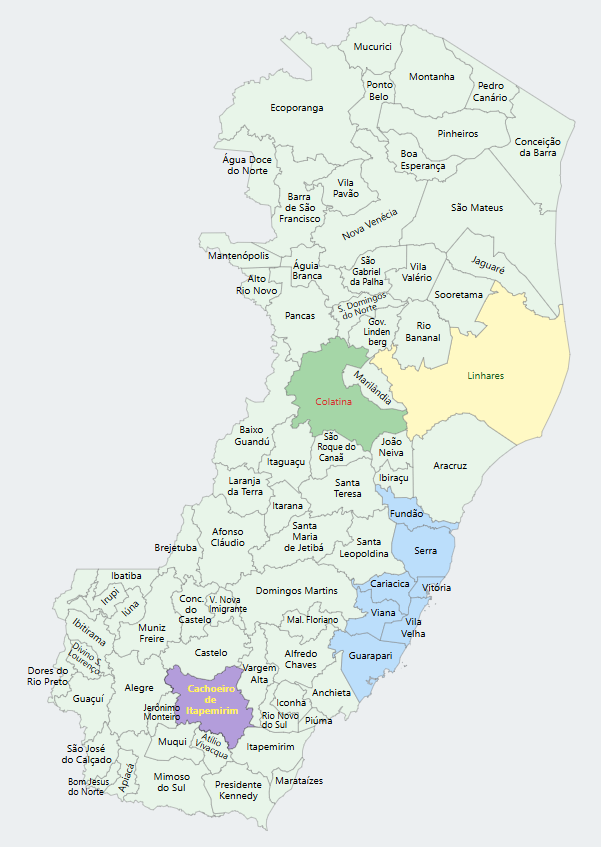
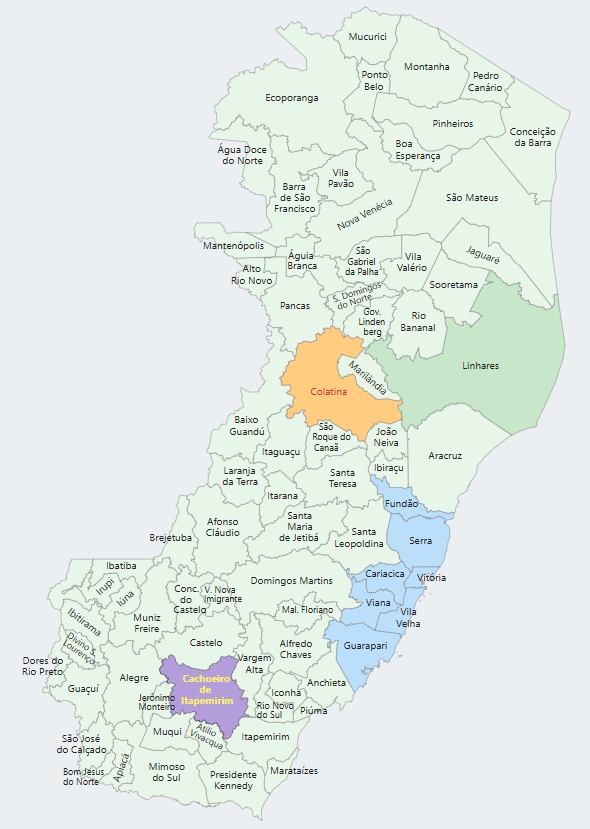
alterando objeto mapaEs para mapaSvg, para deixa-lo mais abrangente caso novos mapas sejam inseridos no futuro

Changed region(s): [[0.0305, 0.0, 0.9763, 0.9952], [0.9458, 0.1206, 0.9763, 0.1508]]

diff --git a/example/script.js b/example/script.js
@@ -3,7 +3,9 @@
 
 function destacarGrandeVitoriaInterior() {
 
-    mapaEs.setAllTracados('#e8f5e9', '#757575');  // MDC GREEN 50, GRAY 600
+    mapaSvg.setAllTracados('#e8f5e9', '#757575'); // MDC GREEN 50, GRAY 600
+    mapaSvg.setAllHover('#c8e6c9'); // MDC GREEN 100
+    mapaSvg.setAllNomes('#212121'); // MDC GREY 900
 
     const municipiosGV = [
         '3201308', //cariacica
@@ -16,36 +18,38 @@ function destacarGrandeVitoriaInterior() {
     ];
 
     municipiosGV.forEach(cod => {
-        mapaEs.setTracado(cod, "#bbdefb"); //MDC BLUE 100
-        mapaEs.setHover(cod, '#64b5f6', '#1565c0', '#212121'); //MDC BLUE 300, BLUE 800, GREY 900
+        mapaSvg.setTracado(cod, "#bbdefb"); //MDC BLUE 100
+        mapaSvg.setHover(cod, '#64b5f6', '#1565c0', '#212121'); //MDC BLUE 300, BLUE 800, GREY 900
     });
 }
 
 function esconderTodosOsNomes() {
-    mapaEs.hideAllNomes();
+    mapaSvg.hideAllNomes();
 }
 
 function exibirTodosOsNomes() {
-    mapaEs.showAllNomes();
+    mapaSvg.showAllNomes();
 }
 
 function exibirApenasLinhares() {
 
-    mapaEs.hideAllTracados();
-    mapaEs.showTracado('3203205');
+    mapaSvg.hideAllTracados();
+    mapaSvg.showTracado('3203205');
 
-    mapaEs.hideAllNomes();
-    mapaEs.showNome('3203205');
+    mapaSvg.hideAllNomes();
+    mapaSvg.showNome('3203205');
 }
 
 function customizarColatina() {
-    mapaEs.setTracado('3201506', "#a5d6a7"); //MDC GREEN 200
-    mapaEs.setNome('3201506', '#d32f2f'); //MDC RED 700
+    mapaSvg.setTracado('3201506', "#ffcc80"); //MDC ORANGE 200
+    mapaSvg.setNome('3201506', '#d32f2f'); //MDC RED 700
+    mapaSvg.setHover('3201506', '#ffa726'); //MDC GREEN 400
 }
 
 function customizarCachoeiro() {
-    mapaEs.setTracado('3201209', '#b39ddb', 'black'); //MDC DEEP PURPLE 200
-    mapaEs.setNome('3201209', '#ffee58', true); //MDC YELLOW 400
+    mapaSvg.setTracado('3201209', '#b39ddb', 'black'); //MDC DEEP PURPLE 200
+    mapaSvg.setNome('3201209', '#ffee58', true); //MDC YELLOW 400
+    mapaSvg.setHover('3201209', '#7e57c2'); //MDC DEEP PURPLE 400
 }
 
 //----------------------------------------------
@@ -59,7 +63,7 @@ document.addEventListener("DOMContentLoaded", async () => {
     // Ao fazer isso, as tags internas do svg passam a fazer parte do DOM,
     //  o que nos permite manipulá-los com css e javascript.
 
-    const response = await fetch('../dist/mapaEs.svg');
+    const response = await fetch('../dist/mapa-es.svg');
     const svgContent = await response.text();
 
     const container = document.querySelector('#map-holder');
@@ -67,17 +71,17 @@ document.addEventListener("DOMContentLoaded", async () => {
     
     const svgElement = container.querySelector('svg');
     
-    //inicializa o mapaEs para facilitar o uso do mapa
-    mapaEs.init(svgElement);
+    //inicializa o mapaSvg para facilitar o uso do mapa
+    mapaSvg.init(svgElement);
 
     // Configura eventos de hover dos traçados dos municípios
-    mapaEs.setAllHover('#fff9c4', null, '#1b5e20'); //MDC YELLOW 100, null, GREEN 900
+    mapaSvg.setAllHover('#fff9c4', null, '#1b5e20'); //MDC YELLOW 100, null, GREEN 900
 
     //lógica de arrastar (pan and zoom)
     PanAndZoomControls.init(container, svgElement);
     
     //Click: mostra um alerta contendo o nome e o código IBGE do município
-    mapaEs.tracados.forEach(t => {
+    mapaSvg.tracados.forEach(t => {
         t.addEventListener("click", () => {
             const munObj = municipioData.find(m => m.codigoIbge === t.id);
             alert(`${munObj.codigoIbge} - ${munObj.nome}`);

diff --git a/dist/mapaSvg.js b/dist/mapaSvg.js
@@ -1,5 +1,5 @@
 /*!
- * Copyright (c) 2024 - Luciano Lorencini - disponível em: https://github.com/luclorencini/mapa-es-svg
+ * Copyright (c) 2025 - Luciano Lorencini - disponível em: https://github.com/luclorencini/mapa-es-svg
  * Licenciado sob a Licença MIT. Consulte o arquivo LICENSE para mais detalhes.
  */
 
@@ -17,7 +17,7 @@
  * 
  * @type {Object}
  */
-const mapaEs = {
+const mapaSvg = {
     /**
      * Lista de todos os elementos 'path' que representam os traçados dos municípios.
      * @type {NodeListOf<SVGPathElement>}
@@ -43,17 +43,17 @@ const mapaEs = {
     init(svgElement) {
 
         if (!svgElement) {
-            console.error('mapaEs - init: elemento SVG não informado');
+            console.error('mapaSvg - init: elemento SVG não informado');
             return;
         }
 
         this.svgElement = svgElement;
 
         // Pega todos os elementos 'path' de municípios
-        mapaEs.tracados = this.svgElement.querySelectorAll("#tracados path");
+        mapaSvg.tracados = this.svgElement.querySelectorAll("#tracados path");
 
         // Pega todos os elementos de nomes de municípios, seja um 'text' ou um 'grupo' de textos
-        mapaEs.nomes = this.svgElement.querySelectorAll('#nomes > *');
+        mapaSvg.nomes = this.svgElement.querySelectorAll('#nomes > *');
 
         // Ajusta labels dos nomes dos municípios para não atrapalhar o mouseover
         this.nomes.forEach(label => {
@@ -96,7 +96,7 @@ const mapaEs = {
      * @param {string} [corStroke] - A cor da borda para todos os traçados.
      */
     setAllTracados(corFill, corStroke) {
-        mapaEs.tracados.forEach(t => {
+        mapaSvg.tracados.forEach(t => {
             this.setTracado(t.id, corFill, corStroke);
         });
     },
@@ -116,7 +116,7 @@ const mapaEs = {
      * Esconde todos os traçados dos municípios.
      */
     hideAllTracados() {
-        mapaEs.tracados.forEach(t => {
+        mapaSvg.tracados.forEach(t => {
             this.hideTracado(t.id);
         });
     },
@@ -136,7 +136,7 @@ const mapaEs = {
      * Exibe todos os traçados dos municípios.
      */
     showAllTracados() {
-        mapaEs.tracados.forEach(t => {
+        mapaSvg.tracados.forEach(t => {
             this.showTracado(t.id);
         });
     },
@@ -191,7 +191,7 @@ const mapaEs = {
      * @param {boolean} isNegrito - Se verdadeiro, aplica negrito a todos os nomes dos municípios; se falso, retira.
      */
     setAllNomes(corHex, isNegrito) {
-        mapaEs.nomes.forEach(nog => {
+        mapaSvg.nomes.forEach(nog => {
             this.setNome(nog.id, corHex, isNegrito);
         });
     },
@@ -211,7 +211,7 @@ const mapaEs = {
      * Esconde todos os nomes dos municípios.
      */
     hideAllNomes() {
-        mapaEs.nomes.forEach(n => {
+        mapaSvg.nomes.forEach(n => {
             this.hideNome(n.id);
         });
     },
@@ -231,7 +231,7 @@ const mapaEs = {
      * Exibe todos os nomes dos municípios.
      */
     showAllNomes() {
-        mapaEs.nomes.forEach(n => {
+        mapaSvg.nomes.forEach(n => {
             this.showNome(n.id);
         });
     },
@@ -326,7 +326,7 @@ const mapaEs = {
      * @param {string} [corName] - A cor do nome do município para todos os traçados.
      */
     setAllHover(corFill, corStroke, corName) {
-        mapaEs.tracados.forEach(t => {
+        mapaSvg.tracados.forEach(t => {
             this.setHover(t.id, corFill, corStroke, corName);
         });
     },

diff --git a/example/index.html b/example/index.html
@@ -3,11 +3,11 @@
 <head>
     <meta charset="UTF-8">
     <meta name="viewport" content="width=device-width, initial-scale=1.0">
-    <title>mapaEs.js - Mapa Interativo - Espírito Santo</title>
+    <title>mapaSvg.js - Mapa Interativo - Espírito Santo</title>
     <link rel="stylesheet" href="style.css">
 </head>
 <body>
-	<div class="topbar">mapaEs.js - Mapa Interativo do Espírito Santo</div>
+	<div class="topbar">mapaSvg.js - Mapa Interativo do Espírito Santo</div>
 	<div class="tela-dividida">
 		<div class="map-container">
 			<div id="map-holder"></div>
@@ -55,7 +55,7 @@
 		<button class="button-zoom" id="resetButton">Reset</button>
 	</div>
 
-	<script src="../dist/mapaEs.js"></script>
+	<script src="../dist/mapaSvg.js"></script>
 	<script src="script.js"></script>
 </body>
 </html>

diff --git a/README.md b/README.md
@@ -1,4 +1,4 @@
-# mapaEs.js - Mapa Iterativo do Espírito Santo
+# mapaSvg.js - Mapa Iterativo do Espírito Santo
 
 Crie um gráfico do estado do Espírito Santo, totalmente customizável e iterativo.
 
@@ -44,7 +44,7 @@ Se preferir, você também pode fazer o download dos arquivos diretamente da pas
 A melhor forma de inserir um SVG na página de forma a poder manipulá-lo é carregando-o com `fetch` e inserir no DOM. Ao fazer isso, as tags internas do SVG passam a fazer parte do DOM, o que nos permite manipulá-los com css e javascript
 
 ```javascript
-const response = await fetch('path/to/mapaEs.svg');
+const response = await fetch('mapa-es.svg');
 const svgContent = await response.text();
 
 const container = document.querySelector('#map-holder');
@@ -65,7 +65,7 @@ Após carregar o SVG, basta agora obtê-lo e chamar o método `init` informando-
 
 ```javascript
 const svgElement = container.querySelector('svg'); // Obtém o SVG do mapa recèm-carregado na página
-mapaEs.init(svgElement);
+mapaSvg.init(svgElement);
 ```
 
 ### Alterando a cor de um município
@@ -73,7 +73,7 @@ mapaEs.init(svgElement);
 Para alterar a cor de um município específico, use o método `setTracado()`, passando o código IBGE do município e as cores desejadas para o preenchimento (`fill`) e a borda (`stroke`).
 
 ```javascript
-mapaEs.setTracado("3205309", "#ff0000", "#000000");  // Altera a cor de preenchimento e borda do município com o código IBGE 3205309 (Vitória)
+mapaSvg.setTracado("3205309", "#ff0000", "#000000");  // Altera a cor de preenchimento e borda do município com o código IBGE 3205309 (Vitória)
 ```
 
 ### Exibindo ou escondendo traçados e nomes
@@ -81,9 +81,9 @@ mapaEs.setTracado("3205309", "#ff0000", "#000000");  // Altera a cor de preenchi
 Você pode exibir ou esconder os traçados e os nomes de um município ou de todos os municípios:
 
 ```javascript
-mapaEs.hideAllTracados();  // Esconde todos os traçados
-mapaEs.showTracado("3203205");  // Exibe o traçado do município com o código IBGE 3203205 (Linhares)
-mapaEs.hideNome("3201506");  // Esconde o nome do município com o código IBGE 3201506 (Colatina)
+mapaSvg.hideAllTracados();  // Esconde todos os traçados
+mapaSvg.showTracado("3203205");  // Exibe o traçado do município com o código IBGE 3203205 (Linhares)
+mapaSvg.hideNome("3201506");  // Esconde o nome do município com o código IBGE 3201506 (Colatina)
 ```
 
 ### Alterando o estilo dos nomes dos municípios
@@ -91,16 +91,16 @@ mapaEs.hideNome("3201506");  // Esconde o nome do município com o código IBGE 
 Você pode alterar a cor e o estilo (negrito) dos nomes dos municípios individualmente ou de todos os municípios:
 
 ```javascript
-mapaEs.setAllNomes("#ff0000", false);  // Altera a cor de todos os nomes para vermelho e remove o negrito
-mapaEs.setNome("3201209", "#0000ff", true);  // Altera a cor para azul e aplica negrito no nome do município com o código IBGE 3201209 (Cachoeiro de Itapemirim)
+mapaSvg.setAllNomes("#ff0000", false);  // Altera a cor de todos os nomes para vermelho e remove o negrito
+mapaSvg.setNome("3201209", "#0000ff", true);  // Altera a cor para azul e aplica negrito no nome do município com o código IBGE 3201209 (Cachoeiro de Itapemirim)
 ```
 
 ### Manipulando todos os traçados e nomes
 
 Você pode alterar as cores de todos os traçados e nomes de uma vez:
 ```javascript
-mapaEs.setAllTracados("#00ff00", "#000000");  // Altera a cor de preenchimento e borda de todos os traçados
-mapaEs.setAllNomes("#ff00ff", true);  // Altera a cor de todos os nomes para roxo e aplica negrito
+mapaSvg.setAllTracados("#00ff00", "#000000");  // Altera a cor de preenchimento e borda de todos os traçados
+mapaSvg.setAllNomes("#ff00ff", true);  // Altera a cor de todos os nomes para roxo e aplica negrito
 ```
 
 ### Alterando as cores de um município ao passar o mouse sobre ele
@@ -112,7 +112,7 @@ const corFill = '#3498db';   // Cor de preenchimento para todos
 const corStroke = '#2980b9'; // Cor da borda para todos
 const corName = '#2c3e50';   // Cor do nome para todos
 
-mapaEs.setHover('3204906', corFill, corStroke, corName); // Aplica o efeito hover ao passar o mouse sobre o município com o código IBGE 3204906 (São Mateus)
+mapaSvg.setHover('3204906', corFill, corStroke, corName); // Aplica o efeito hover ao passar o mouse sobre o município com o código IBGE 3204906 (São Mateus)
 ```
 ### Alterando as cores de todos os municípios ao passar o mouse sobre qualquer um deles
 
@@ -131,7 +131,7 @@ setAllHover(corFill, corStroke, corName); // Aplica o efeito hover em todos os m
 Você pode configurar eventos nos municípios contidos no atributo `tracados`. O código abaixo demonstra como configurar `click` para todos os traçados de município:
 
 ```javascript
-mapaEs.tracados.forEach(t => {
+mapaSvg.tracados.forEach(t => {
   t.addEventListener("click", () => {
     alert(t.id);
   });
@@ -174,28 +174,28 @@ Nota: todos os parâmetros marcados como opcionais serão ignorados se você inf
 
 ## Sobre os arquivos
 
-### mapaEs.js
+### mapaSvg.js
 
-O arquivo **mapaEs.js** define objeto `mapaEs`, que encapsula funcionalidades para manipular o arquivo `mapaEs.svg` descrito abaixo. Ele permite interagir com os elementos SVG, manipulando suas cores, visibilidade e estilos, além de configurar eventos de interação, como o destaque de municípios ao passar o mouse. Toda a documentação acima se refere a este objeto.
+O arquivo **mapaSvg.js** define objeto `mapaSvg`, que encapsula funcionalidades para manipular o arquivo `mapa-es.svg` descrito abaixo. Ele permite interagir com os elementos SVG, manipulando suas cores, visibilidade e estilos, além de configurar eventos de interação, como o destaque de municípios ao passar o mouse. Toda a documentação acima se refere a este objeto.
 
-### mapaEs.svg
+### mapa-es.svg
 
-O arquivo `mapaEs.svg` representa o mapa do estado do Espírito Santo, Brasil, e contém todos os 78 municípios do estado. 
+O arquivo `mapa-es.svg` representa o mapa do estado do Espírito Santo, Brasil, e contém todos os 78 municípios do estado. 
 
 O formato adotado é o SVG (Scalable Vector Graphics) usado para criar gráficos vetoriais bidimensionais e, por isso, podem ser escalados sem perder qualidade. Arquivos SVG podem ser manipulados com JavaScript e CSS e são compatíveis com todos os navegadores modernos, o que os torna ideal para gráficos interativos em aplicações web.
 
 O mapa é formado por dois principais conjuntos de elementos:
 
-**Traçados dos municípios**: Cada município é representado por um elemento `<path>`, e o id de cada `<path>` corresponde ao código IBGE do município. Esse código IBGE é usado para identificar e manipular os traçados individualmente através dos métodos do objeto `mapaEs`, como `getTracado()`, `setTracado()`, e outros relacionados ao controle de traçados.
+**Traçados dos municípios**: Cada município é representado por um elemento `<path>`, e o id de cada `<path>` corresponde ao código IBGE do município. Esse código IBGE é usado para identificar e manipular os traçados individualmente através dos métodos do objeto `mapaSvg`, como `getTracado()`, `setTracado()`, e outros relacionados ao controle de traçados.
 
-**Nomes dos municípios**: Os nomes dos municípios são representados por elementos `<text>` (quando o nome do município cabe em apenas uma linha) ou `<g>` (grupo de textos), quando o nome do município precisa de 2 ou mais linhas dentro do mapa. Neste caso, o grupo contém elementos `<text>` para cada linha de texto. Cada `<text>` ou `<g>` tem um id correspondente ao código IBGE do município, o que permite a manipulação dos nomes dos municípios através dos métodos do objeto `mapaEs`, como `getNome()`, `setNome()`, e outros relacionados à exibição e formatação de nomes.
+**Nomes dos municípios**: Os nomes dos municípios são representados por elementos `<text>` (quando o nome do município cabe em apenas uma linha) ou `<g>` (grupo de textos), quando o nome do município precisa de 2 ou mais linhas dentro do mapa. Neste caso, o grupo contém elementos `<text>` para cada linha de texto. Cada `<text>` ou `<g>` tem um id correspondente ao código IBGE do município, o que permite a manipulação dos nomes dos municípios através dos métodos do objeto `mapaSvg`, como `getNome()`, `setNome()`, e outros relacionados à exibição e formatação de nomes.
 
 #### Estrutura do SVG
 
 - `<svg>`: A tag raiz do arquivo SVG que define o mapa do estado do Espírito Santo. Exemplo:
 
 ```xml
-<svg version="1.1" id="mapaEs" x="0px" y="0px">
+<svg version="1.1" x="0px" y="0px">
 ```
 
 - `<g id="tracados">`: Um grupo de elementos `<path>` que representam os limites dos municípios. Cada `<path>` tem um id correspondente ao código IBGE do município. Exemplo:
@@ -221,7 +221,7 @@ O mapa é formado por dois principais conjuntos de elementos:
 </g>
 ```
 
-O tamanho padrão do SVG do **mapaEs.svg** é:
+O tamanho padrão do SVG do **mapa-es.svg** é:
 
 ```
 height="790px"
